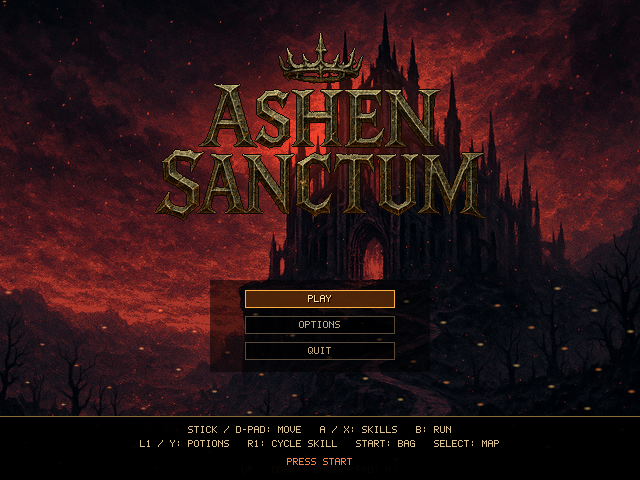
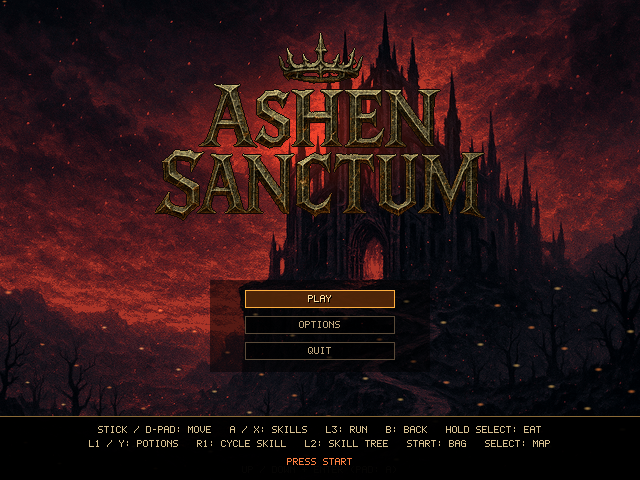
v1.5.3: quitting from the menus asks first (a box: YES / NO)
B / Esc on the title, QUIT, or SELECT + START anywhere in the menus opens "QUIT ASHEN SANCTUM?";
A / Enter quits, B / Esc goes back. It used to close at once, which looked like a crash. The port
cover names the new buttons (L3 runs, B is back).

Changed region(s): [[0.2188, 0.875, 0.8125, 0.9375], [0.8125, 0.875, 0.8438, 0.9062], [0.1562, 0.875, 0.1875, 0.9062]]

diff --git a/src/menu.rs b/src/menu.rs
@@ -64,8 +64,10 @@ pub struct Menu {
     rects: Vec<(i32, i32, i32, i32, usize)>,
     /// The hero last highlighted in the list (what the DELETE HERO button acts on).
     hero_sel: usize,
-    /// QUIT was picked once on the title screen: once more to really quit.
+    /// The "quit the game?" box is up (B / Esc on the title, QUIT, or SELECT + START anywhere in the menus);
+    /// its YES and NO buttons, for the mouse.
     quit_armed: bool,
+    quit_rects: [(i32, i32, i32, i32); 2],
     /// First hero row shown (the list scrolls when it doesn't fit).
     scroll: usize,
     /// Rows that fit on screen (from the last draw).
@@ -88,6 +90,7 @@ impl Menu {
             rects: vec![],
             hero_sel: 0,
             quit_armed: false,
+            quit_rects: [(0, 0, 0, 0); 2],
             scroll: 0,
             rows_fit: 7,
             seed: 1,
@@ -154,6 +157,22 @@ impl Menu {
         let (up, down, left, right) = if typing && typed_now { (false, false, false, false) } else { (up, down, left, right) };
         let mut confirm = inp.confirm || (inp.cast && !prev.cast && !(typing && typed_now));
         let back = inp.cancel || (inp.back && !typing);
+        // The quit box: A / Enter quits, B / Esc goes back (it used to quit straight away, and that looked like a
+        // crash).
+        if inp.quit_ask {
+            self.quit_armed = true;
+            return None;
+        }
+        if self.quit_armed {
+            let click = |r: (i32, i32, i32, i32)| inp.lmb && !prev.lmb && inp.mouse.map_or(false, |(mx, my)| mx >= r.0 && mx < r.0 + r.2 && my >= r.1 && my < r.1 + r.3);
+            if inp.confirm || (inp.cast && !prev.cast) || click(self.quit_rects[0]) {
+                return Some(MenuOut::Quit);
+            }
+            if back || click(self.quit_rects[1]) {
+                self.quit_armed = false;
+            }
+            return None;
+        }
         let n = self.items().max(1);
         let horizontal = self.stage == Stage::Create;
         let (left, right) = if horizontal { (left || inp.wheel > 0, right || inp.wheel < 0) } else { (left, right) };
@@ -176,12 +195,9 @@ impl Menu {
         }
         match self.stage {
             Stage::Title => {
-                // Back goes to QUIT; QUIT asks once more before it closes the game.
+                // Back, or QUIT: the "quit the game?" box.
                 if back {
-                    self.sel = 2;
-                }
-                if self.sel != 2 {
-                    self.quit_armed = false;
+                    self.quit_armed = true;
                 }
                 if confirm {
                     match self.sel {
@@ -190,11 +206,7 @@ impl Menu {
                             self.go(s);
                         }
                         1 => self.go(Stage::Options),
-                        _ if self.quit_armed => return Some(MenuOut::Quit),
-                        _ => {
-                            self.quit_armed = true;
-                            self.say("ARE YOU SURE? PRESS AGAIN TO QUIT");
-                        }
+                        _ => self.quit_armed = true,
                     }
                 }
             }
@@ -379,6 +391,25 @@ impl Menu {
             let c = mix(BLACK, rgb(0xffd080), t.min(1.0));
             scr.text(m, w / 2, h - 34, c, Align::Center, 1);
         }
+        if self.quit_armed {
+            // The quit box, over everything.
+            scr.blend(0, 0, w, h, BLACK, 0.6);
+            let (bw, bh) = (300, 92);
+            let (bx, by) = (w / 2 - bw / 2, h / 2 - bh / 2);
+            scr.fill(bx - 2, by - 2, bw + 4, bh + 4, rgb(0x6a4a20));
+            scr.fill(bx, by, bw, bh, rgb(0x140e0a));
+            scr.text("QUIT ASHEN SANCTUM?", w / 2, by + 12, rgb(0xffd080), Align::Center, 2);
+            scr.text("YOUR HEROES ARE SAVED.", w / 2, by + 36, rgb(0xb0a090), Align::Center, 1);
+            let labels = ["YES, QUIT (A / ENTER)", "NO (B / ESC)"];
+            for (k, label) in labels.iter().enumerate() {
+                let tw = crate::gfx::text_width(label, 1) + 16;
+                let x = if k == 0 { w / 2 - tw - 6 } else { w / 2 + 6 };
+                let y = by + bh - 28;
+                scr.fill(x, y, tw, 16, if k == 0 { rgb(0x5a3a10) } else { rgb(0x2a2018) });
+                scr.text(label, x + 8, y + 5, rgb(0xffe0a0), Align::Left, 1);
+                self.quit_rects[k] = (x, y, tw, 16);
+            }
+        }
     }
 
     /// The painted logo (tools/oai_title.py), centred with its top at `y`; false if there is no art.
@@ -434,8 +465,7 @@ impl Menu {
         }
         scr.blend(w / 2 - 110, h / 2 + if tall { 40 } else { 10 }, 220, 92, BLACK, 0.5);
         let y0 = h / 2 + if tall { 50 } else { 20 };
-        let quit = if self.quit_armed { "QUIT? SURE?" } else { "QUIT" };
-        for (k, label) in ["PLAY", "OPTIONS", quit].iter().enumerate() {
+        for (k, label) in ["PLAY", "OPTIONS", "QUIT"].iter().enumerate() {
             self.button(scr, label, w / 2, y0 + k as i32 * 26, 150, k, true);
         }
         scr.text("UP / DOWN + ENTER (PAD: A)", w / 2, h - 14, rgb(0x7a6a5a), Align::Center, 1);
@@ -694,11 +724,13 @@ mod tests {
         press(&mut m, |i| i.confirm = true);
         assert_eq!(m.stage, Stage::Heroes);
         assert_eq!(press(&mut m, |i| i.confirm = true), Some(MenuOut::Load("carmilla".into())));
-        // Esc from the title goes to QUIT, and QUIT asks once more.
+        // Esc from the title asks first: Esc again goes back, ENTER quits.
         let mut m = Menu::new(vec![]);
         assert_eq!(press(&mut m, |i| i.cancel = true), None);
-        assert_eq!(m.sel, 2);
-        assert_eq!(press(&mut m, |i| i.confirm = true), None, "are you sure?");
+        assert!(m.quit_armed, "the quit box");
+        assert_eq!(press(&mut m, |i| i.cancel = true), None);
+        assert!(!m.quit_armed, "no: back to the title");
+        assert_eq!(press(&mut m, |i| i.quit_ask = true), None, "SELECT + START asks too");
         assert_eq!(press(&mut m, |i| i.confirm = true), Some(MenuOut::Quit));
     }
 

diff --git a/src/snapshot.rs b/src/snapshot.rs
@@ -708,12 +708,16 @@ fn staged(d: &str, h: i32, scr: &mut Screen) {
             scr.blend(0, hh - 64, w, 64, crate::gfx::BLACK, 0.95);
             scr.fill(0, hh - 64, w, 1, crate::gfx::rgb(0x8a6a38));
             let col = crate::gfx::rgb(0xd8c090);
-            scr.text("STICK / D-PAD: MOVE   A / X: SKILLS   B: RUN", w / 2, hh - 54, col, crate::gfx::Align::Center, 1);
+            scr.text("STICK / D-PAD: MOVE   A / X: SKILLS   L3: RUN   B: BACK   HOLD SELECT: EAT", w / 2, hh - 54, col, crate::gfx::Align::Center, 1);
             scr.text("L1 / Y: POTIONS   R1: CYCLE SKILL   L2: SKILL TREE   START: BAG   SELECT: MAP", w / 2, hh - 40, col, crate::gfx::Align::Center, 1);
             scr.text("PRESS START", w / 2, hh - 22, crate::gfx::rgb(0xff8040), crate::gfx::Align::Center, 1);
             write_bmp(&format!("{d}/port_cover.bmp"), scr).expect("write snapshot");
             println!("staged port_cover");
         }
+        // The quit box (B / Esc on the title).
+        m.update(&Input { cancel: true, ..Input::default() });
+        shot(&mut m, scr, "menu_quit");
+        m.update(&Input { cancel: true, ..Input::default() });
         m.stage = Stage::Heroes;
         m.sel = 1;
         shot(&mut m, scr, "menu_heroes");
